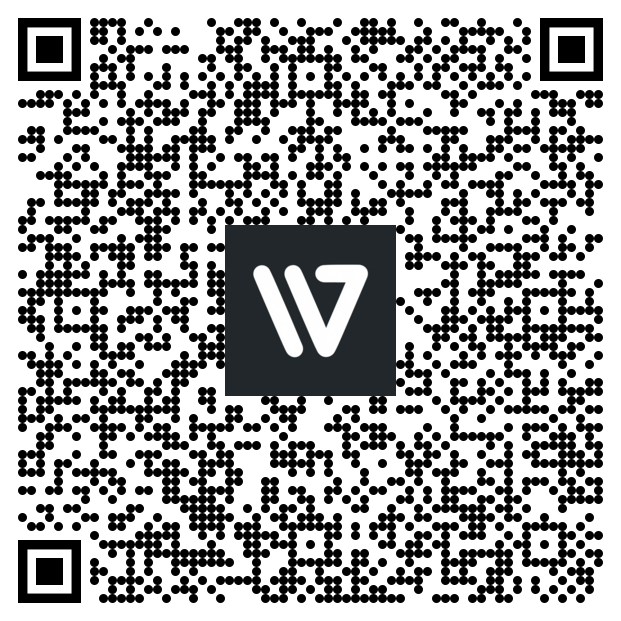
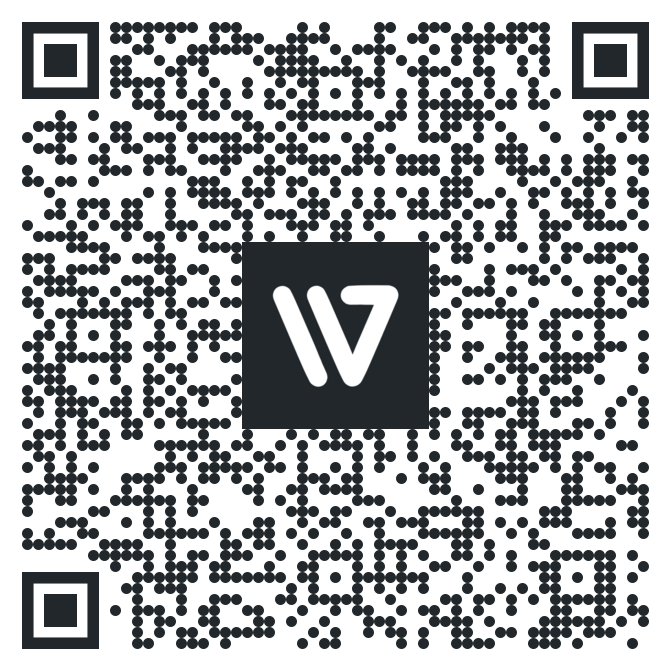
feat: add deep link, update urls, update features docs

diff --git a/index.html b/index.html
@@ -66,9 +66,19 @@
             Install an F-Droid client like
             <a href="https://f-droid.org/">official F-Droid</a> or <a href="https://droidify.app/">Droid-ify</a>.
           </li>
-          <li>Navigate to <strong>Settings > Repositories</strong> (may vary by client).</li>
-          <li>Click the <strong>+</strong> button, then <strong>Scan QR code or add manually</strong>.</li>
+          <li>Tap the button below to add this repo in your client (fingerprint included).</li>
         </ol>
+
+        <p>
+          <a
+            class="add-repo"
+            href="fdroidrepos://fdroid.wgtunnel.com/fdroid/repo?fingerprint=0890C5D44C0109E366801C39840325E810E21B270B9D2AEC53CE0D6C5FC849DB"
+          >
+            Add repository in F-Droid
+          </a>
+        </p>
+
+        <p class="note">Or scan the QR code, or copy the HTTPS URL.</p>
 
         <div class="qr">
           <a href="qrcode.png" title="Enlarge QR code">
@@ -79,7 +89,7 @@
         <p class="note">Manual URL:</p>
 
         <div class="repo-block">
-          <div class="repo-code"><code>https://raw.githubusercontent.com/wgtunnel/fdroid/main/fdroid/repo?fingerprint=0890C5D44C0109E366801C39840325E810E21B270B9D2AEC53CE0D6C5FC849DB</code></div>
+          <div class="repo-code"><code>https://fdroid.wgtunnel.com/fdroid/repo?fingerprint=0890C5D44C0109E366801C39840325E810E21B270B9D2AEC53CE0D6C5FC849DB</code></div>
 
           <button
                   class="copy-button"

diff --git a/assets/site.css b/assets/site.css
@@ -133,6 +133,30 @@ h2 {
   color: var(--primary);
 }
 
+.add-repo {
+  display: inline-flex;
+  align-items: center;
+  justify-content: center;
+  margin: 0.35rem 0 0.75rem;
+  padding: 0.7rem 1.15rem;
+  border-radius: 999px;
+  background: var(--primary);
+  color: #142022;
+  font-weight: 700;
+  font-size: 0.95rem;
+  text-decoration: none;
+}
+
+.add-repo:hover {
+  text-decoration: none;
+  filter: brightness(1.06);
+}
+
+.add-repo:focus-visible {
+  outline: 2px solid var(--primary);
+  outline-offset: 3px;
+}
+
 .qr {
   text-align: center;
   margin: 1.25rem 0;

diff --git a/README.md b/README.md
@@ -14,9 +14,16 @@ This repository hosts the official [F-Droid](https://f-droid.org/) repo for **WG
 <!-- end apps table -->
 
 ### How to use
+
 1. Install an F-Droid client like [official F-Droid](https://f-droid.org/) or [Droid-ify](https://droidify.app/).
-2. Navigate to **Settings > Repositories** (may vary by client).
-3. Click the **+** button, then **Scan QR code or add manually**.
+2. Add this repository:
+
+**[Add repository in F-Droid](fdroidrepos://fdroid.wgtunnel.com/fdroid/repo?fingerprint=0890C5D44C0109E366801C39840325E810E21B270B9D2AEC53CE0D6C5FC849DB)**
+
+That `fdroidrepos://` link opens your F-Droid client to add the repo, including the fingerprint.
+
+Or scan the QR code, or paste the HTTPS URL below.
+
 <div>
    <br/>
    <p style="text-align: center;">
@@ -24,11 +31,10 @@ This repository hosts the official [F-Droid](https://f-droid.org/) repo for **WG
     </p>
 </div>
 
-
-
 Manual URL:
+
 ```
-    https://raw.githubusercontent.com/wgtunnel/fdroid/main/fdroid/repo?fingerprint=0890C5D44C0109E366801C39840325E810E21B270B9D2AEC53CE0D6C5FC849DB
+https://fdroid.wgtunnel.com/fdroid/repo?fingerprint=0890C5D44C0109E366801C39840325E810E21B270B9D2AEC53CE0D6C5FC849DB
 ```
 
 
